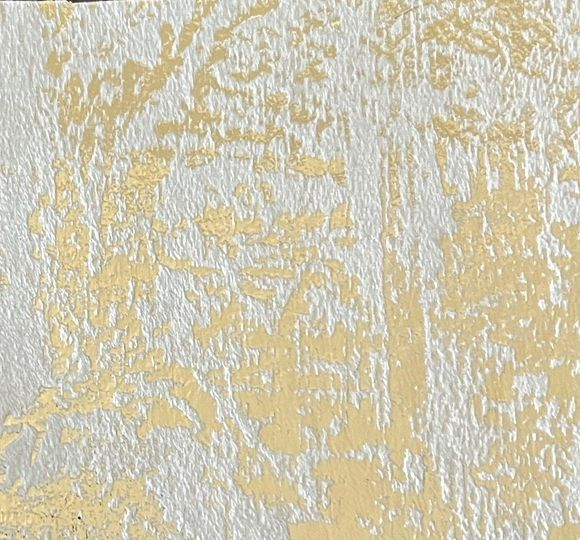
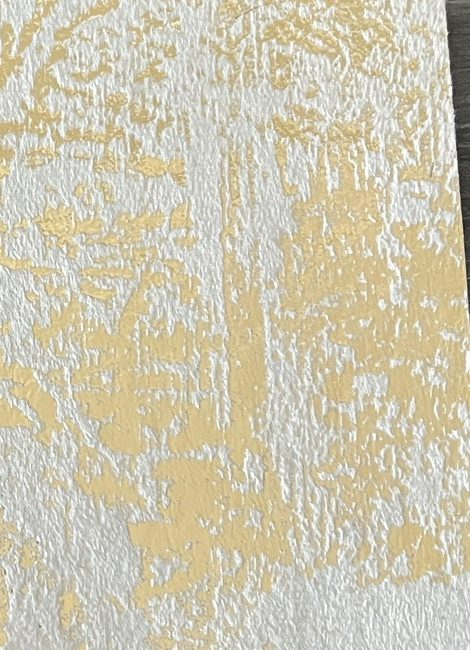
Parçalı stüdyo: Bienca'daki fotoğraf gölgeleri giderildi, köşe kararması ve bant gölgesi hafifletildi
Claude-Session: https://claude.ai/code/session_01QER1FqZCmw8rrYpwEQ2poJ

diff --git a/uretim_takip/uretim/parcali_gorsel.py b/uretim_takip/uretim/parcali_gorsel.py
@@ -54,6 +54,13 @@ def _kartela_dokusu(ad, boyut, px):
     if ad.startswith("bienca"):
         k = max(boyut[0] / kaynak.width, boyut[1] / kaynak.height)
         b = kaynak.resize((max(1, round(kaynak.width * k)), max(1, round(kaynak.height * k))), Image.LANCZOS)
+        # numune fotoğrafındaki ışık-gölge (kıvrım, pencere ışığı) halıda gölge gibi görünür: geniş ölçekli
+        # parlaklık farkı silinir, desenin kendi açık-koyu tonu kalır
+        gri = b.convert("L")
+        ort = max(1, gri.resize((1, 1), Image.BOX).getpixel((0, 0)))
+        genis = gri.filter(ImageFilter.GaussianBlur(max(4, b.width / 8)))
+        duz = genis.point(lambda q: max(0, min(255, round(128 * ort / max(q, 1)))))
+        b = ImageChops.multiply(b, Image.merge("RGB", (duz,) * 3)).point(lambda q: min(255, q * 2))
         return b.crop(((b.width - boyut[0]) // 2, (b.height - boyut[1]) // 2,
                        (b.width - boyut[0]) // 2 + boyut[0], (b.height - boyut[1]) // 2 + boyut[1]))
     # Rono: numunenin genel rengi ve hafif eskitme tonları bütün parçayı tek kaplar (kare kare tekrar görünmez);
@@ -266,7 +273,7 @@ def ciz(v, uzun_kenar=900, arka=(38, 35, 33)):
     # bantların gölgesi ve dikiş (zig-zag) izleri
     if golge_kaynak.getbbox():
         golge = golge_kaynak.filter(ImageFilter.GaussianBlur(max(2, px * 0.8)))
-        golge = ImageChops.subtract(golge, golge_kaynak).point(lambda q: int(q * 0.45))
+        golge = ImageChops.subtract(golge, golge_kaynak).point(lambda q: int(q * 0.2))
         resim = Image.composite(Image.new("RGB", boyut, (0, 0, 0)), resim, golge)
     # kabartma: her parça dikiş yerinde hafifçe içe çöker (gölge), ortası ışık alır
     dikis = Image.new("L", boyut, 0)
@@ -301,7 +308,7 @@ def ciz(v, uzun_kenar=900, arka=(38, 35, 33)):
         noktalar = ImageChops.multiply(dikis, kesik)
         resim = Image.composite(Image.new("RGB", boyut, (70, 60, 45)), resim, noktalar)
 
-    isik = Image.radial_gradient("L").resize(boyut).point(lambda q: 255 - q // 4)
+    isik = Image.radial_gradient("L").resize(boyut).point(lambda q: 255 - q // 12)
     resim = ImageChops.multiply(resim, Image.merge("RGB", (isik, isik, isik)))
 
     pay = int(uzun_kenar * 0.05)

diff --git a/CLAUDE.md b/CLAUDE.md
@@ -116,7 +116,7 @@ Formlar `forms.py`, ekranlar `templates/uretim/`, menü `../templates/base.html`
 - İş kolu: programı çok müşterili yapmak (firma adı/logo/istasyon/ürün ayardan).
 
 ## Günlük (en yeni üstte, bir satır)
-- 2026-11-06: YÖN DEĞİŞTİ: foto boyama yerine parçalı stüdyo (kullanıcı: 'o program daha iyiydi'). `parcali_gorsel._kartela_dokusu`: Bienca bütün halıyı tek baskı kaplar; Rono numunenin yumuşatılmış rengi + gerçek ölçüde ince dokuma (tuğla kaydırmalı); rulo ek yeri çizgisi görüntüde yok. DXF desenleri LZ01–08 (`is_belgeleri/lazer_dxf_cevir.py` → `tasarim_varlik/desen/LZxx.png`, desenler.json tur 'lz', LZ06 Rıva / LZ07 Köşem alan deseni; `hali_gorsel._lz_serit/_lz_cerceve` bant genişliğine ölçekli tam sayı tekrar; migration 0037 LazerDeseni). Seçili 10 model `parcali.SECILI_MODELLER` + `FOTO_RENK` (`_yapi`: halkalar, desen, renk, desen_alti katalogdan); bantlarda RN+BN, biye kartela ya da altın/gümüş (`kartelaya_uydur`). Henüz bayiye açılmadı (stüdyo yalnız yönetici). Sıradaki: kullanıcı onayı → bayi Sipariş ver'de bu 10 model parçalı çizimle; nakış motifleri (katalog sayfaları) bordür olarak.
+- 2026-11-06: YÖN DEĞİŞTİ: foto boyama yerine parçalı stüdyo (kullanıcı: 'o program daha iyiydi'). `parcali_gorsel._kartela_dokusu`: Bienca bütün halıyı tek baskı kaplar; Rono numunenin yumuşatılmış rengi + gerçek ölçüde ince dokuma (tuğla kaydırmalı); rulo ek yeri çizgisi görüntüde yok. DXF desenleri LZ01–08 (`is_belgeleri/lazer_dxf_cevir.py` → `tasarim_varlik/desen/LZxx.png`, desenler.json tur 'lz', LZ06 Rıva / LZ07 Köşem alan deseni; `hali_gorsel._lz_serit/_lz_cerceve` bant genişliğine ölçekli tam sayı tekrar; migration 0037 LazerDeseni). Seçili 10 model `parcali.SECILI_MODELLER` + `FOTO_RENK` (`_yapi`: halkalar, desen, renk, desen_alti katalogdan); bantlarda RN+BN, biye kartela ya da altın/gümüş (`kartelaya_uydur`). Gölge düzeltmesi: Bienca geniş ışık farkı silinir (`_kartela_dokusu`), köşe kararması ve bant iç gölgesi hafif, BN04 yeni kırpım. Henüz bayiye açılmadı (stüdyo yalnız yönetici). Sıradaki: kullanıcı onayı → bayi Sipariş ver'de bu 10 model parçalı çizimle; nakış motifleri (katalog sayfaları) bordür olarak.
 - 2026-11-06: 4. güncelleme (migration 0035–0036): düzeltme yetkisi (`HesapAyari.duzeltme_yetkisi`, `servisler.duzeltebilir` = yönetici ya da yetkili tablet + işin bütün işlemleri Lazer/Nakış/Kaplama; `islem_geri_al`, `is_iptal`, `siparis_iptal` (tablet yalnız kendi alanı), `iptali_geri_ac` yönetici; `DuzeltmeKaydi`, menü 🛠 Düzeltmeler); BN05 kaldırıldı (Bienca 4 renk, `ESKI_MALZEME` bn05→bn04, kullanılmışsa pasif); Bienca BN01–04 + altın/gümüş biye dokuları yeni fotoğraflardan, metal bölgeler doku ile (foto_model SURUM 7). Kullanıcının 15 lazer DXF'i `is_belgeleri/lazer_dxf/` (desen parçaları cm, bütün halı mm; desen bordür genişliğine göre ölçeklenir; Rono+Bienca'da kullanılacak; hangi model hangi desen bende), nakış katalog ekran görüntüleri `is_belgeleri/nakis_katalog/` (marka logoları 59.02/64/67/69/72/76.02/78/80 KONMAYACAK; 77.03 'harf' olarak alınır). SIRADAKİ: 2. güncelleme = desenler + nakış motiflerinin programa girmesi, halıyı parça parça yeniden kurma.
 - 2026-11-06: Rono RN01–07 dokuları kullanıcının numune fotoğraflarından (`is_belgeleri/rono_numune/`, kartvizit ölçek ~75 px/cm, renk resmî kartelaya %75 yaklaştırıldı, RN05 metalik bronz numune); kartela küçük resimleri + `parcali` hex'leri güncellendi; foto_model SURUM 6. Kullanıcıya önerilen yeni yön (onay bekliyor): boyama yerine halıyı gerçek malzeme dokuları + lazer DXF + nakış DST dosyalarıyla parça parça kurmak; bekleniyor: gümüş biye foto, lazer desen dosyaları, nakış dosyaları.
 - 2026-11-06: 3. güncelleme (migration 0034): Bienca dokuları kullanıcının büyük fotoğraflarından (`doku/bienca_bn01–05.jpg`, ışık düzeltilmiş; BN05 yeni Krem & yoğun altın, BN02 adı Bakır eskitme), Bienca bölgeyi tek parça kaplar (`_bienca_kapla`, tekrar yok); `doku/altin.jpg` gerçek altın; bölge aileleri `bolge_secenekleri` (zemin kendi ailesi RN01–07 / BN, bant RN+BN, desen/biye +altın/gümüş); nakışlı bant `NAKISLI_BANT` (Rono üstüne motif dört kenar, `_nakis_isle` kabartma + saten); RNO-013 nakışlı Rono yakın görünüm (`NAKIS_KUTULARI`, motif sil + yeniden işle), BNA-027/028 (harita aracı `is_belgeleri/foto_model_katalog/yeni_harita.py`); 5 Bienca modelinin ortası BN; bayi Sipariş ver'de ≤3 fotoğraf (`SiparisFotografi.EN_COK` 4), Siparişlerim'de görür, medya yalnız kendi siparişi.
